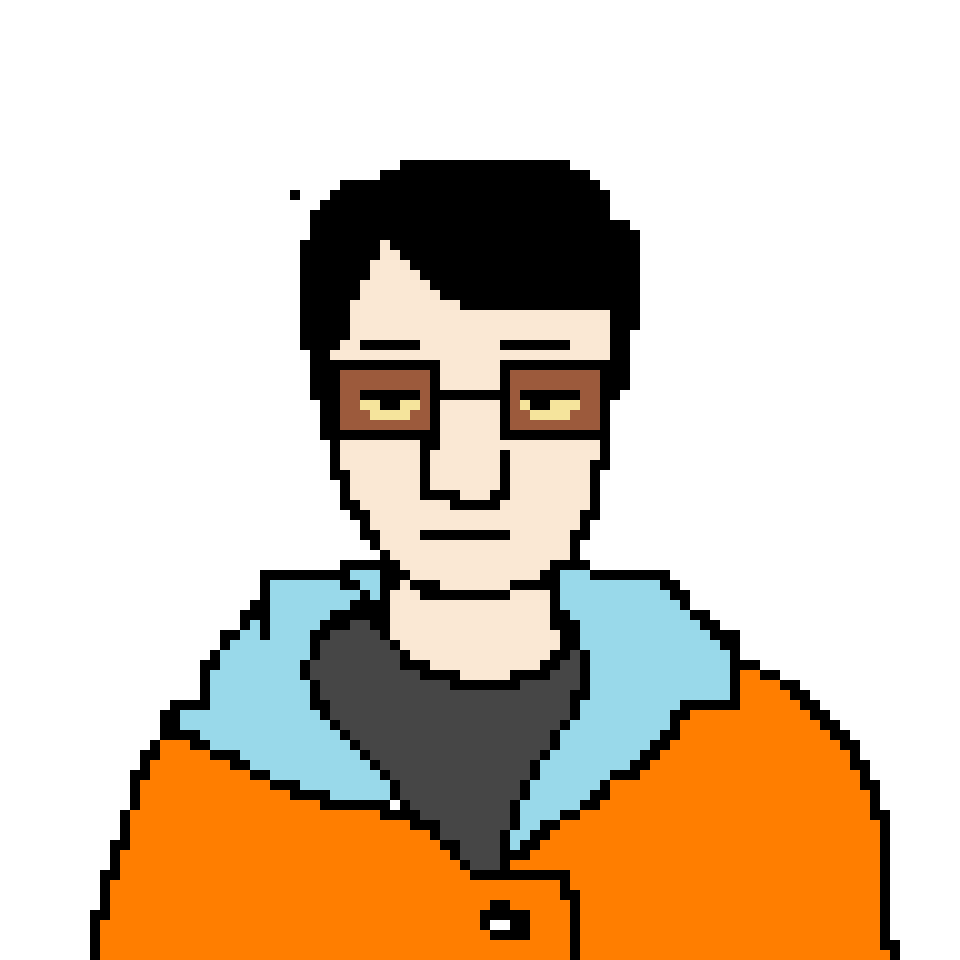
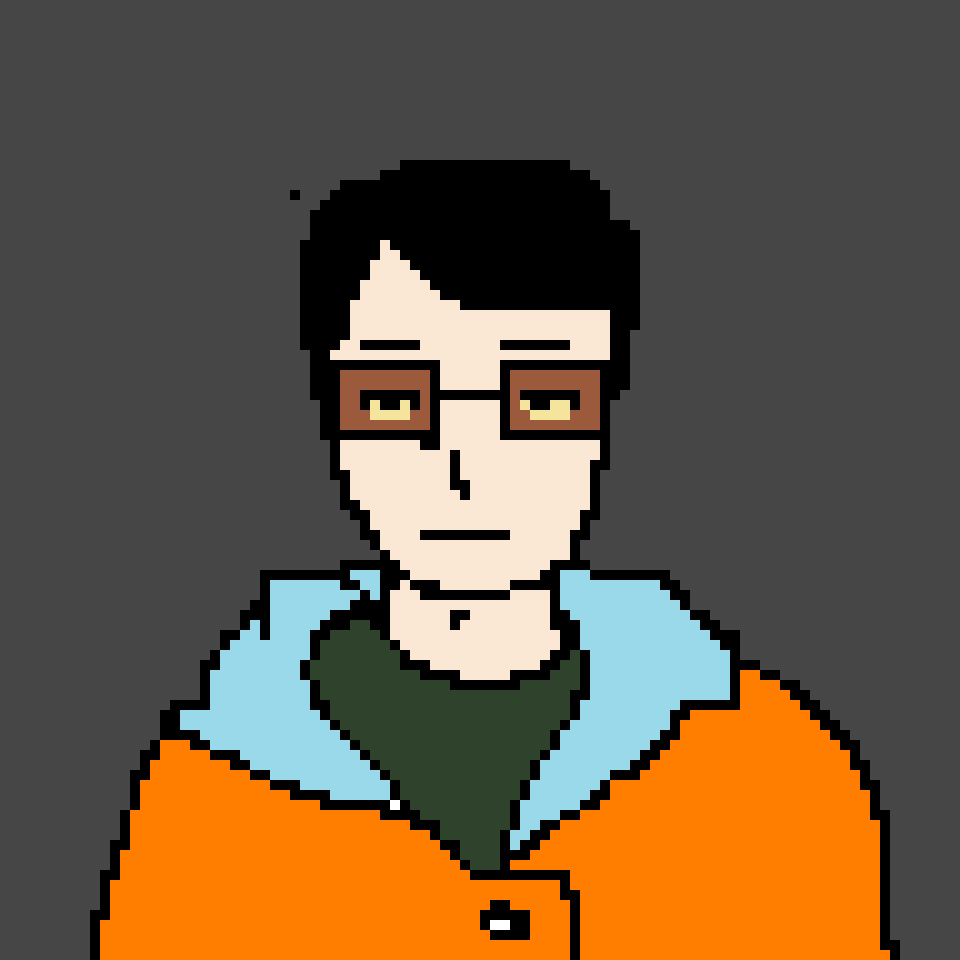
update photo

diff --git a/components/Photo.jsx b/components/Photo.jsx
@@ -12,14 +12,14 @@ const Photo = () => {
           transition: { delay: 2, duration: 0.25, ease: "easeIn" },
         }}
       >
-        <div className="w-[298px] h-[298px] xl:w-[498px] xl:h-[498px]">
+        <div className="w-[298px] h-[298px] xl:w-[498px] xl:h-[498px] ">
           <Image
             src="/assets/me.png"
             priority
             quality={100}
             fill
             alt=""
-            className="object-contain"
+            className="object-contain bg-blend-darken rounded-full"
           />
         </div>
       </motion.div>
